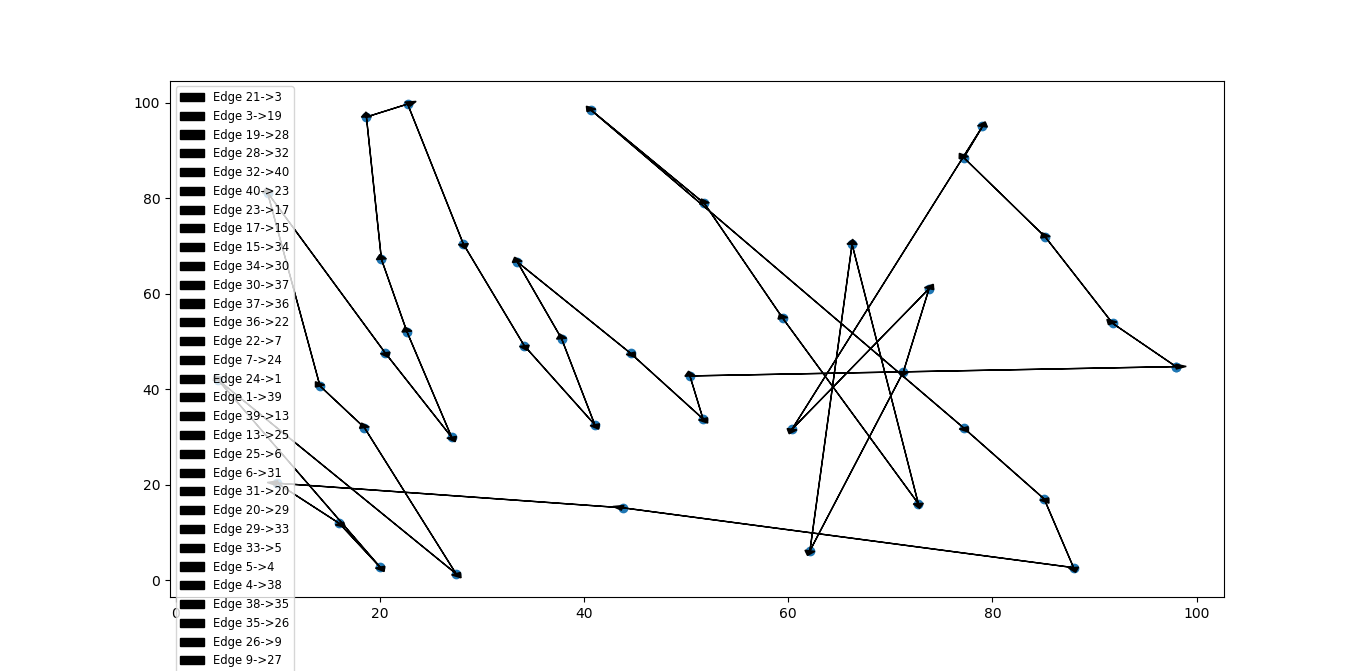
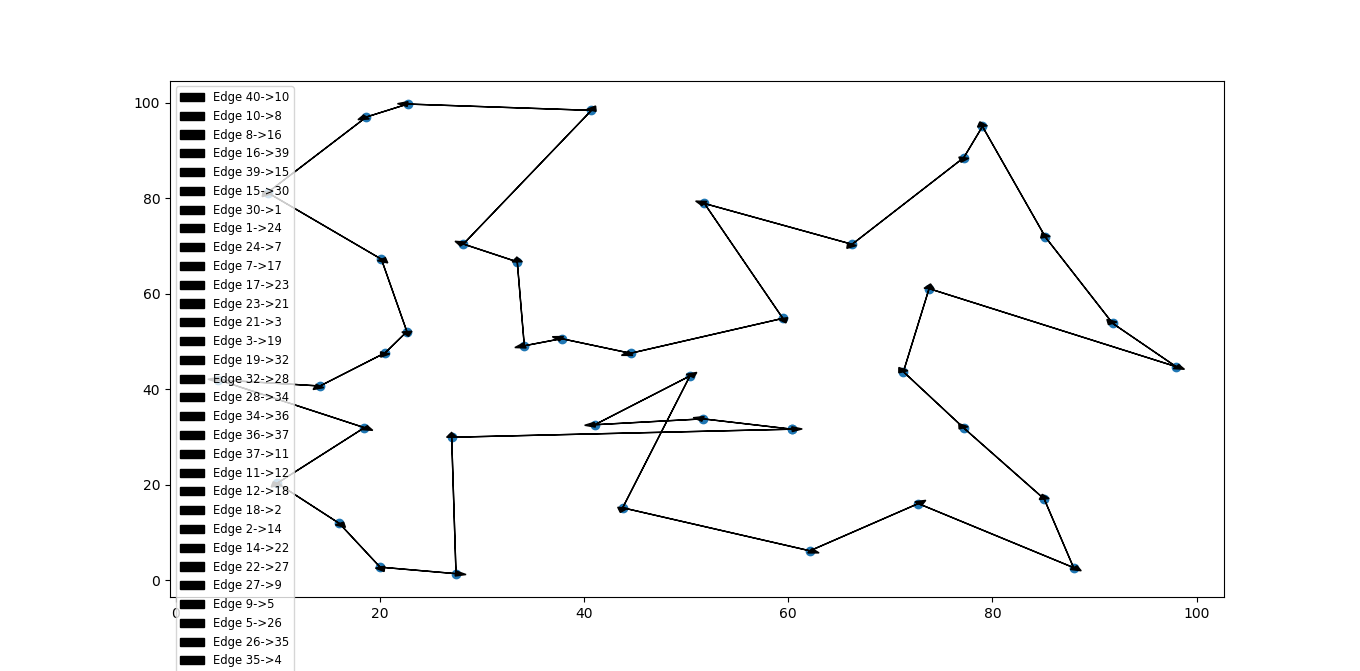
Working project 3 solution ; )

diff --git a/Project 3/src/Graph.py b/Project 3/src/Graph.py
@@ -44,8 +44,23 @@ class Edge(object):
         self.vertices = np.array([vertex1, vertex2])
         self.distance = Edge.compute_edge_length(vertex1, vertex2)
 
+    def __eq__(self, other):
+        return self.vertices[0] == other.vertices[0] and self.vertices[1] == other.vertices[1]
+
+    def __lt__(self, other):
+        return self.distance < other.distance
+
+    def __le__(self, other):
+        return self.distance <= other.distance
+
+    def __gt__(self, other):
+        return self.distance > other.distance
+
+    def __ge__(self, other):
+        return self.distance >= other.distance
+
     def __str__(self):
-        return str(self.vertices[0].vertex_id) + "->" + str(self.vertices[1].vertex_id) + " | distance: " + str(self.distance)
+        return "(" + str(self.vertices[0].vertex_id) + "->" + str(self.vertices[1].vertex_id) + ")"
 
     def compute_distance_to_vertex(self, vertex):
         return Math.calculate_distance_from_line_to_point(self.get_points(), vertex.get_location())
@@ -203,25 +218,92 @@ class Route(object):
                 self.edges = np.append(self.edges, [edge])
             return edge
 
+    def lasso(self, vertex, closest_item_to_next_vertex):
+        if isinstance(closest_item_to_next_vertex, Edge):
+            edge_vertex1 = closest_item_to_next_vertex.vertices[0]
+            edge_vertex2 = closest_item_to_next_vertex.vertices[1]
+            edge_vertex2_index = np.where(self.vertices == edge_vertex2)[0]
+
+            if edge_vertex2_index < len(self.vertices) - 1:
+                v3 = self.vertices[edge_vertex2_index+1][0]
+
+            v1_v2 = closest_item_to_next_vertex.distance
+
+            if edge_vertex2_index < len(self.vertices) - 2:
+                v1_v2_v0_v3 = v1_v2 + Math.calculate_distance_from_point_to_point(edge_vertex2.get_location(), vertex.get_location()) + Math.calculate_distance_from_point_to_point(vertex.get_location(), v3.get_location())
+                v1_v0_v2_v3 = Math.calculate_distance_from_point_to_point(edge_vertex1.get_location(), vertex.get_location()) + Math.calculate_distance_from_point_to_point(vertex.get_location(), edge_vertex2.get_location()) + Math.calculate_distance_from_point_to_point(edge_vertex2.get_location(), v3.get_location())
+            else:
+                v1_v2_v0_v3 = v1_v2 + Math.calculate_distance_from_point_to_point(edge_vertex2.get_location(), vertex.get_location())
+                v1_v0_v2_v3 = Math.calculate_distance_from_point_to_point(edge_vertex1.get_location(), vertex.get_location()) + Math.calculate_distance_from_point_to_point(vertex.get_location(), edge_vertex2.get_location())
+
+            if v1_v2_v0_v3 < v1_v0_v2_v3:
+                # Best to insert it after edge_vertex2 in vertices list
+                new_vertex_location = np.where(self.vertices == edge_vertex2)[0] + 1
+
+                self.vertices = np.insert(self.vertices, new_vertex_location, vertex)
+
+                edge_v1_v2 = [edge for edge in self.edges if edge == closest_item_to_next_vertex][0]
+                edge_v1_v2_index = np.where(self.edges == edge_v1_v2)[0]
+                new_edge_location = edge_v1_v2_index + 1
+
+                if new_vertex_location < len(self.vertices)-1:
+                    for edge in self.edges:
+                        if edge.vertices[0].vertex_id == edge_vertex2.vertex_id and edge.vertices[1].vertex_id == v3.vertex_id:
+                            edge_v2_v3 = edge
+                    self.edges = self.edges[self.edges != edge_v2_v3]
+                    edge_v0_v3 = Edge(vertex, v3)
+                    self.edges = np.insert(self.edges, new_edge_location, edge_v0_v3)
+                    self.distance_traveled += edge_v0_v3.distance
+
+                edge_v2_v0 = Edge(edge_vertex2, vertex)
+                self.edges = np.insert(self.edges, new_edge_location, edge_v2_v0)
+
+                self.distance_traveled += edge_v2_v0.distance
+            else:
+                edge_v1_v2 = [edge for edge in self.edges if edge == closest_item_to_next_vertex][0]
+                edge_v1_v2_index = np.where(self.edges == edge_v1_v2)[0]
+
+                # Best to insert it before edge_vertex2 in vertices list
+                new_vertex_location = np.where(self.vertices == edge_vertex2)[0]
+                self.vertices = np.insert(self.vertices, new_vertex_location, vertex)
+
+                edge_v1_v0 = Edge(edge_vertex1, vertex)
+                edge_v0_v2 = Edge(vertex, edge_vertex2)
+                self.edges = self.edges[self.edges != edge_v1_v2]
+                self.edges = np.insert(self.edges, edge_v1_v2_index, edge_v0_v2)
+                self.edges = np.insert(self.edges, edge_v1_v2_index, edge_v1_v0)
+
+                self.distance_traveled -= v1_v2
+                self.distance_traveled += edge_v1_v0.distance
+                self.distance_traveled += edge_v0_v2.distance
+        elif isinstance(closest_item_to_next_vertex, Vertex):
+            self.goto(vertex)
+
+        vertex.visited = True
+
     def get_shortest_distance_to_route(self, vertex):
-        closest_vertex_distance = None
+        closest_distance = None
+        closest_item = None
 
         if self.edges is not None:
             for edge in self.edges:
                 distance_to_edge = edge.compute_distance_to_vertex(vertex)
 
-                if closest_vertex_distance is None:
-                    closest_vertex_distance = distance_to_edge
+                if closest_distance is None:
+                    closest_distance = distance_to_edge
+                    closest_item = edge
                 else:
-                    if closest_vertex_distance > distance_to_edge:
-                        closest_vertex_distance = distance_to_edge
+                    if closest_distance > distance_to_edge:
+                        closest_distance = distance_to_edge
+                        closest_item = edge
         else:
             if self.vertices is not None:
-                closest_vertex_distance = Math.calculate_distance_from_point_to_point(self.vertices[-1].get_location(), vertex.get_location())
+                closest_distance = Math.calculate_distance_from_point_to_point(self.vertices[-1].get_location(), vertex.get_location())
+                closest_item = self.vertices[-1]
             else:
-                return 0
+                return 0, None, None
 
-        return closest_vertex_distance
+        return closest_item, closest_distance
 
     def edge_passes_over_route(self, test_edge):
         if self.edges is None:
@@ -231,6 +313,14 @@ class Route(object):
                 if Math.lines_intersect(edge.get_points(), test_edge.get_points()):
                     return True
             return False
+
+    def recount_distance(self):
+        result = 0
+
+        for edge in self.edges:
+            result += edge.distance
+
+        return result
 
 class Graph(object):
     def __init__(self, vertices):

diff --git a/Project 3/src/TravelingSalesman.py b/Project 3/src/TravelingSalesman.py
@@ -47,28 +47,8 @@ class TravelingSalesman():
             return string
 
         def step_forward(self):
-            next_vertex = self.choose_next_vertex()
-
-            if self.route.vertices is None:
-                self.route.goto(self.route.vertices[0])
-            else:
-                last_vertex = self.route.vertices[-1]
-                new_edge = Edge(last_vertex, next_vertex)
-
-                if self.reset_heuristic:
-                    if self.route.edge_passes_over_route(new_edge):
-                        new_starting_vertex_id = self.remaining_starting_vertex_ids[0]
-                        self.route.reset_route()
-                        self.route.goto(self.route.graph.get_vertex_by_id(new_starting_vertex_id))
-                        self.attempted_starting_vertex_ids.append(new_starting_vertex_id)
-                        self.remaining_starting_vertex_ids = self.get_remaining_starting_vertex_ids()
-                    else:
-                        self.route.goto(next_vertex)
-                else:
-                    if self.route.edge_passes_over_route(new_edge):
-                        self.crosses += 1
-
-                    self.route.goto(next_vertex)
+            next_vertex, closest_item_next_to_vertex = self.choose_next_vertex()
+            self.route.lasso(next_vertex, closest_item_next_to_vertex)
 
             if len(self.route.vertices) > len(self.route.graph.vertices):
                 self.done = True
@@ -83,24 +63,28 @@ class TravelingSalesman():
                     self.done = False
 
         def choose_next_vertex(self):
+            closest_item_next_to_closest_vertex = None
+            r_type_of_closest_item = None
             closest_vertex = None
-            closest_vertex_distance = None
+            closest_distance = None
 
             for vertex in self.route.get_unvisited_vertices():
-                vertex_distance = self.route.get_shortest_distance_to_route(vertex)
+                closest_item_next_to_vertex, item_distance = self.route.get_shortest_distance_to_route(vertex)
 
                 if closest_vertex is None:
                     closest_vertex = vertex
-                    closest_vertex_distance = vertex_distance
+                    closest_distance = item_distance
+                    closest_item_next_to_closest_vertex = closest_item_next_to_vertex
                 else:
-                    if vertex_distance < closest_vertex_distance:
-                        closest_vertex_distance = vertex_distance
+                    if item_distance < closest_distance:
+                        closest_distance = item_distance
                         closest_vertex = vertex
+                        closest_item_next_to_closest_vertex = closest_item_next_to_vertex
 
             if len(self.route.get_unvisited_vertices()) == 0:
-                return self.route.vertices[0]
+                return self.route.vertices[0], self.route.vertices[1]
             else:
-                return closest_vertex
+                return closest_vertex, closest_item_next_to_closest_vertex
 
         def get_remaining_starting_vertex_ids(self):
             return [vertex_id for vertex_id in list(range(1, len(self.route.graph.vertices)+1)) if vertex_id not in self.attempted_starting_vertex_ids]
@@ -356,7 +340,7 @@ if __name__ == "__main__":
             result = try_all_starting_vertex_ids_with_algorithm(graph, TravelingSalesman.GreedyAlgorithm)
 
             end = time.time()
-            print("greedy solution", str(result))
+            print("greedy solution", str(result), result.recount_distance())
             print("Time elaspsed: {}".format(end-start))
 
             result.plot()

diff --git a/Project 3/src/Utilities.py b/Project 3/src/Utilities.py
@@ -4,15 +4,77 @@ import numpy as np
 class Math():
     @staticmethod
     def calculate_distance_from_line_to_point(line, point):
-        line_point_1, line_point_2 = line
-        x1, y1 = line_point_1
-        x2, y2 = line_point_2
+        lp1, lp2 = line
+        x1, y1 = lp1
+        x2, y2 = lp2
         x0, y0 = point
 
-        if (x0 < min(x1, x2) or x0 > max(x1,x2)) and (y0 < min(y1, y2) or y0 > max(y1, y2)):
-            return min([Math.calculate_distance_from_point_to_point(line_point_1, point), Math.calculate_distance_from_point_to_point(line_point_2, point)])
+        lp1_to_p = Math.calculate_distance_from_point_to_point(lp1, point)
+        lp2_to_p = Math.calculate_distance_from_point_to_point(lp2, point)
+        a = x0 - x1
+        b = y0 - y1
+        c = x2 - x1
+        d = y2 - y1
+
+        dot = a*c + b * d
+        len_sq = c*c + d*d
+        param = -1
+
+        if len_sq != 0:
+            param = dot / len_sq
+
+        if param < 0:
+            xx = x1
+            yy = y1
+        elif param > 1:
+            xx = x2
+            yy = y2
         else:
-            return abs((x2-x1)*(y1-y0) - (x1-x0)*(y2-y1)) / (((y2-y1)**2 + (x2-x1)**2)**0.5)
+            xx = x1 + param*c
+            yy = y1 + param*d
+
+        dx = x0 - xx
+        dy = y0 - yy
+
+        result = (dx**2 + dy**2)**0.5
+
+        if (x0 < min(x1, x2) or x0 > max(x1,x2)) and (y0 < min(y1, y2) or y0 > max(y1, y2)):
+            lp1_to_p = Math.calculate_distance_from_point_to_point(lp1, point)
+            lp2_to_p = Math.calculate_distance_from_point_to_point(lp2, point)
+
+            if lp1_to_p < lp2_to_p:
+                return lp1_to_p
+            else:
+                return lp2_to_p
+        else:
+            a = x0 - x1
+            b = y0 - y1
+            c = x2 - x1
+            d = y2 - y1
+
+            dot = a*c + b * d
+            len_sq = c*c + d*d
+            param = -1
+
+            if len_sq != 0:
+                param = dot / len_sq
+
+            if param < 0:
+                xx = x1
+                yy = y1
+            elif param > 1:
+                xx = x2
+                yy = y2
+            else:
+                xx = x1 + param*c
+                yy = y1 + param*d
+
+            dx = x0 - xx
+            dy = y0 - yy
+
+            result = (dx**2 + dy**2)**0.5
+
+            return result
 
     @staticmethod
     def calculate_distance_from_point_to_point(point1, point2):

diff --git a/Project 3/src/Display.py b/Project 3/src/Display.py
@@ -32,7 +32,6 @@ class TravelingSalesmanGUI(QMainWindow):
 
         self.reference = 1
 
-
     def initUI(self):
         self.setWindowTitle(self.title)
         self.setGeometry(self.left, self.top, self.width, self.height)
@@ -266,5 +265,5 @@ if __name__ == '__main__':
 
         # Start the GUI
         app = QApplication(sys.argv)
-        ex = TravelingSalesmanGUI(TravelingSalesman.GreedyAlgorithm(graph, 28))
+        ex = TravelingSalesmanGUI(TravelingSalesman.GreedyAlgorithm(graph, 8))
         sys.exit(app.exec_())
